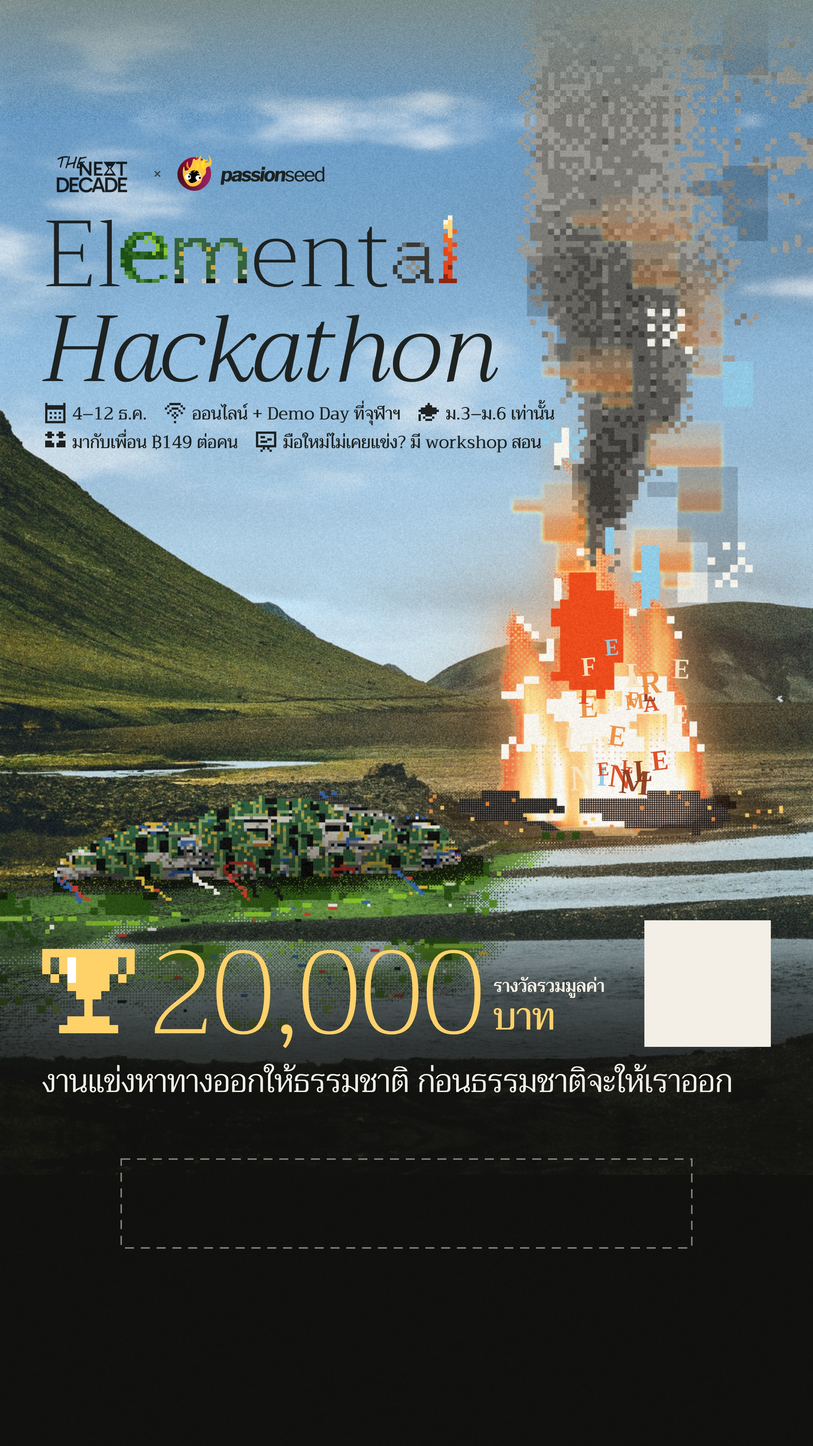
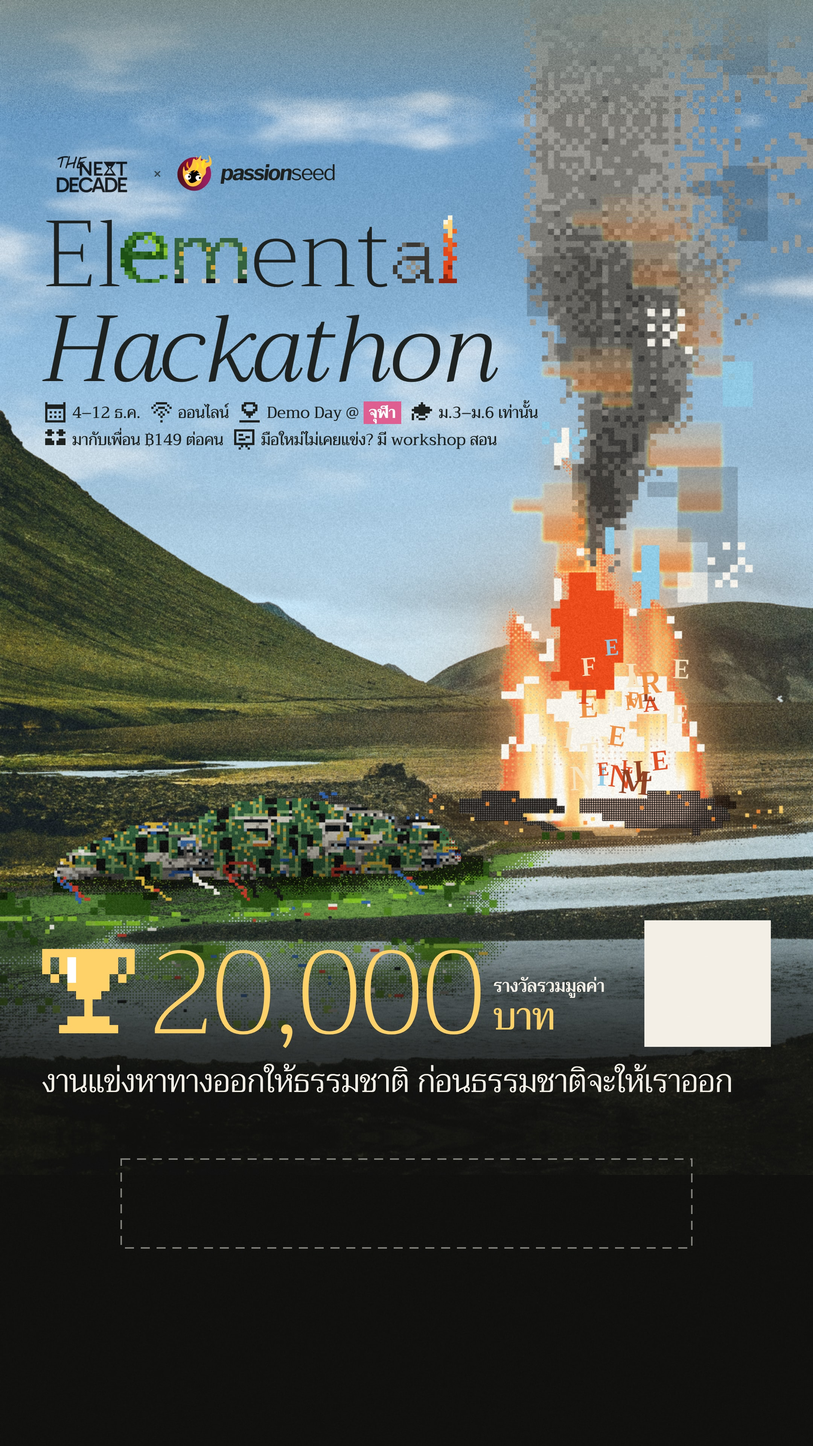
Share posters re-exported from main's new design (#424): wordmark, 4–12 Dec, Demo Day @ จุฬา; the × CSII part hidden for share posters only until CSII approves

Changed region(s): [[0.062, 0.25, 0.6824, 0.3125], [0.2792, 0.0938, 0.4032, 0.125]]

diff --git a/components/hackathon/poster/elemental/ElementalKeyPoster.tsx b/components/hackathon/poster/elemental/ElementalKeyPoster.tsx
@@ -296,11 +296,14 @@ export function Pixels({ rows, fill, cell }: { rows: readonly string[]; fill: Re
  */
 function CsiiMark() {
   return (
-    <>
+    // display: contents, so the × and the logo stay items of the lockup's row (nothing moves). The
+    // data attribute lets the share posters' export leave CSII out until CSII approves
+    // (scripts/render-share-poster-base.mjs; Big, 2026-11-28).
+    <span data-poster-partner="csii" className="contents">
       <span style={{ fontFamily: EL_FONT.mono, fontSize: 20, color: EL.inkSoft }}>×</span>
       {/* eslint-disable-next-line @next/next/no-img-element */}
       <img src="/hackathon/partners/csii.png" alt="CSII, Chulalongkorn School of Integrated Innovation" width={153} height={50} style={{ opacity: 0.88 }} />
-    </>
+    </span>
   );
 }
 
